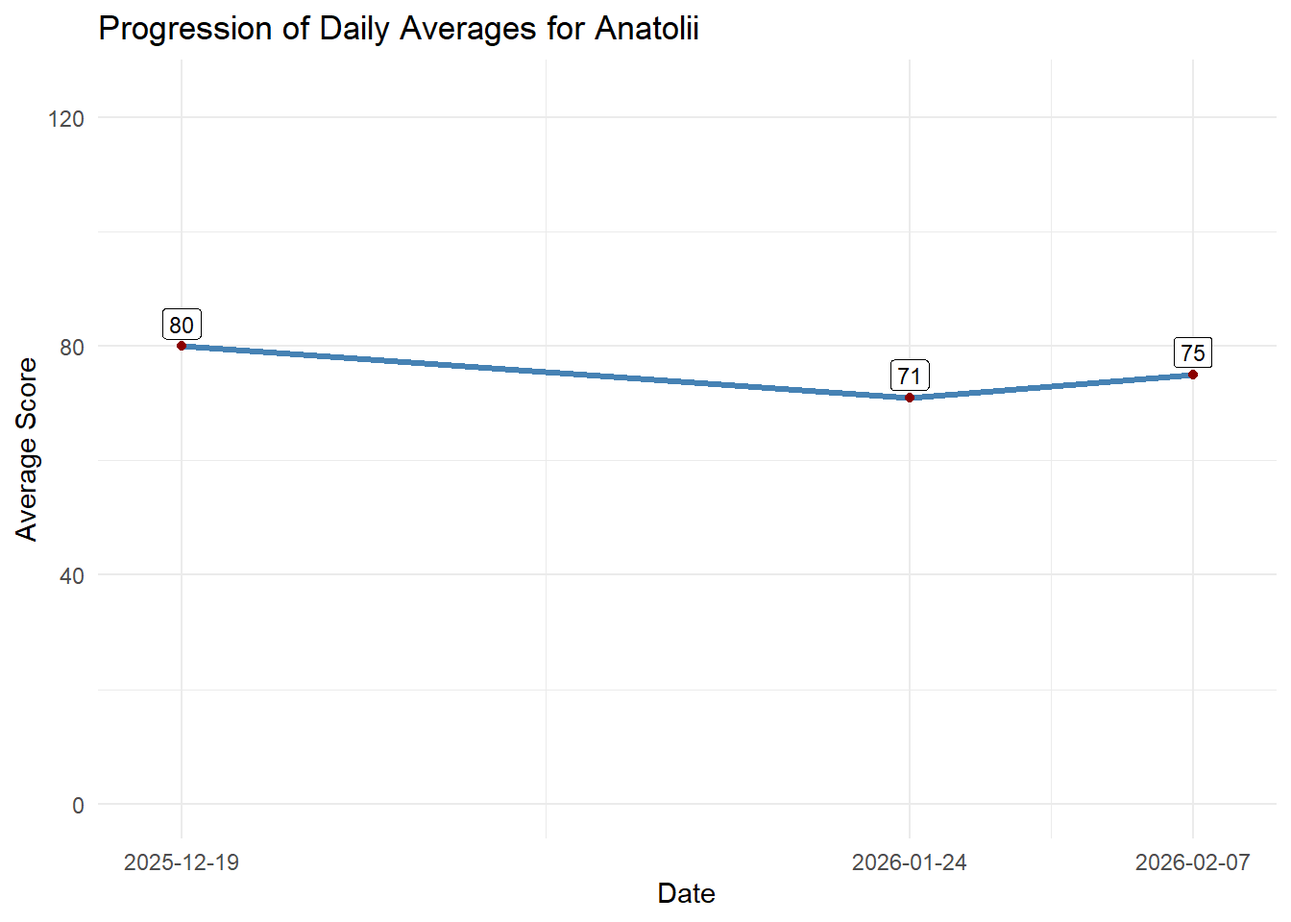
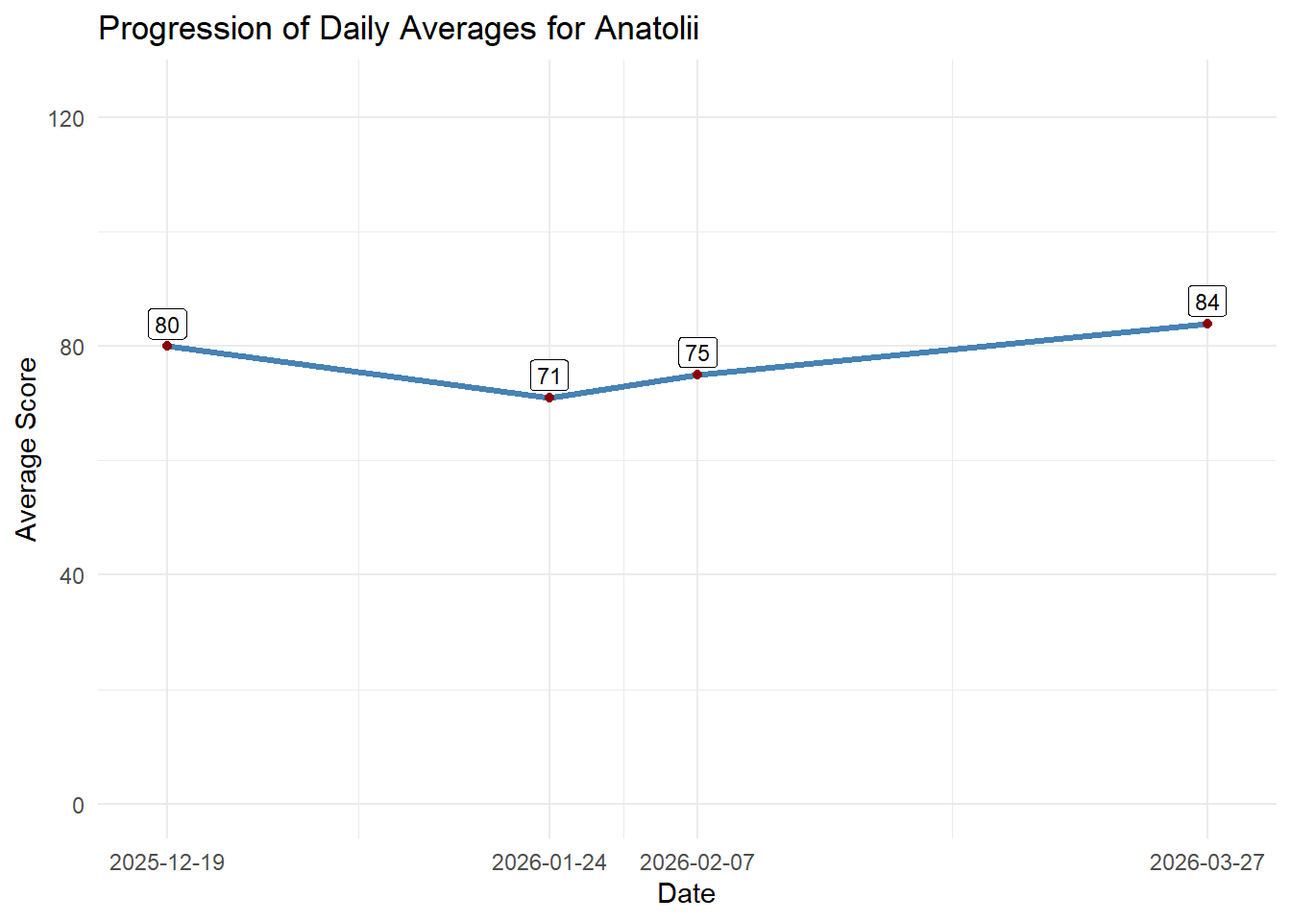
added results from 2026-03-27

diff --git a/docs/sessions.html b/docs/sessions.html
@@ -179,38 +179,47 @@ ul.task-list li input[type="checkbox"] {
 
 <p>The sessions are sorted from new to old.</p>
 <section id="section" class="level2">
-<h2 class="anchored" data-anchor-id="section">06.03.2026</h2>
+<h2 class="anchored" data-anchor-id="section">27.03.2026</h2>
 <div class="cell">
 <div class="cell-output-display">
-<div class="datatables html-widget html-fill-item" id="htmlwidget-83ca4fffd3bae11e1f9b" style="width:100%;height:auto;"></div>
-<script type="application/json" data-for="htmlwidget-83ca4fffd3bae11e1f9b">{"x":{"filter":"none","vertical":false,"data":[["1","2","3","4"],["Flora","Julia","Daniel","Maria"],[95,45,57,58],[77,64,50,38],[86,54.5,53.5,48],[12.7,13.4,4.9,14.1],[2,0,1,0]],"container":"<table class=\"display\">\n  <thead>\n    <tr>\n      <th> <\/th>\n      <th>Player<\/th>\n      <th>Round 1<\/th>\n      <th>Round 2<\/th>\n      <th>Average Score<\/th>\n      <th>Score Standard Deviation<\/th>\n      <th>Strikes<\/th>\n    <\/tr>\n  <\/thead>\n<\/table>","options":{"dom":"t","paging":false,"searching":false,"info":false,"lengthChange":false,"columnDefs":[{"orderSequence":["desc","asc"],"targets":"_all"},{"className":"dt-right","targets":[2,3,4,5,6]},{"orderable":false,"targets":0},{"name":" ","targets":0},{"name":"Player","targets":1},{"name":"Round 1","targets":2},{"name":"Round 2","targets":3},{"name":"Average Score","targets":4},{"name":"Score Standard Deviation","targets":5},{"name":"Strikes","targets":6}],"order":[],"autoWidth":false,"orderClasses":false}},"evals":[],"jsHooks":[]}</script>
+<div class="datatables html-widget html-fill-item" id="htmlwidget-effa2fcfee733bdd86a0" style="width:100%;height:auto;"></div>
+<script type="application/json" data-for="htmlwidget-effa2fcfee733bdd86a0">{"x":{"filter":"none","vertical":false,"data":[["1","2","3","4"],["Niko","Anatolii","Flora","Julia"],[119,88,75,49],[105,81,89,94],[112,84.5,82,71.5],[9.9,4.9,9.9,31.8],[3,2,1,4]],"container":"<table class=\"display\">\n  <thead>\n    <tr>\n      <th> <\/th>\n      <th>Player<\/th>\n      <th>Round 1<\/th>\n      <th>Round 2<\/th>\n      <th>Average Score<\/th>\n      <th>Score Standard Deviation<\/th>\n      <th>Strikes<\/th>\n    <\/tr>\n  <\/thead>\n<\/table>","options":{"dom":"t","paging":false,"searching":false,"info":false,"lengthChange":false,"columnDefs":[{"orderSequence":["desc","asc"],"targets":"_all"},{"className":"dt-right","targets":[2,3,4,5,6]},{"orderable":false,"targets":0},{"name":" ","targets":0},{"name":"Player","targets":1},{"name":"Round 1","targets":2},{"name":"Round 2","targets":3},{"name":"Average Score","targets":4},{"name":"Score Standard Deviation","targets":5},{"name":"Strikes","targets":6}],"order":[],"autoWidth":false,"orderClasses":false}},"evals":[],"jsHooks":[]}</script>
 </div>
 </div>
 </section>
 <section id="section-1" class="level2">
-<h2 class="anchored" data-anchor-id="section-1">07.02.2026</h2>
+<h2 class="anchored" data-anchor-id="section-1">06.03.2026</h2>
 <div class="cell">
 <div class="cell-output-display">
-<div class="datatables html-widget html-fill-item" id="htmlwidget-dc3dbd8230154e09d8fd" style="width:100%;height:auto;"></div>
-<script type="application/json" data-for="htmlwidget-dc3dbd8230154e09d8fd">{"x":{"filter":"none","vertical":false,"data":[["1","2","3","4"],["Niko","Anatolii","Julia","Daniel"],[81,71,63,49],[124,74,68,82],[82,81,70,59],[95.7,75.3,67,63.3],[24.5,5.1,3.6,16.9],[2,2,0,0]],"container":"<table class=\"display\">\n  <thead>\n    <tr>\n      <th> <\/th>\n      <th>Player<\/th>\n      <th>Round 1<\/th>\n      <th>Round 2<\/th>\n      <th>Round 3<\/th>\n      <th>Average Score<\/th>\n      <th>Score Standard Deviation<\/th>\n      <th>Strikes<\/th>\n    <\/tr>\n  <\/thead>\n<\/table>","options":{"dom":"t","paging":false,"searching":false,"info":false,"lengthChange":false,"columnDefs":[{"orderSequence":["desc","asc"],"targets":"_all"},{"className":"dt-right","targets":[2,3,4,5,6,7]},{"orderable":false,"targets":0},{"name":" ","targets":0},{"name":"Player","targets":1},{"name":"Round 1","targets":2},{"name":"Round 2","targets":3},{"name":"Round 3","targets":4},{"name":"Average Score","targets":5},{"name":"Score Standard Deviation","targets":6},{"name":"Strikes","targets":7}],"order":[],"autoWidth":false,"orderClasses":false}},"evals":[],"jsHooks":[]}</script>
+<div class="datatables html-widget html-fill-item" id="htmlwidget-b308853e47e1a6294600" style="width:100%;height:auto;"></div>
+<script type="application/json" data-for="htmlwidget-b308853e47e1a6294600">{"x":{"filter":"none","vertical":false,"data":[["1","2","3","4"],["Flora","Julia","Daniel","Maria"],[95,45,57,58],[77,64,50,38],[86,54.5,53.5,48],[12.7,13.4,4.9,14.1],[2,0,1,0]],"container":"<table class=\"display\">\n  <thead>\n    <tr>\n      <th> <\/th>\n      <th>Player<\/th>\n      <th>Round 1<\/th>\n      <th>Round 2<\/th>\n      <th>Average Score<\/th>\n      <th>Score Standard Deviation<\/th>\n      <th>Strikes<\/th>\n    <\/tr>\n  <\/thead>\n<\/table>","options":{"dom":"t","paging":false,"searching":false,"info":false,"lengthChange":false,"columnDefs":[{"orderSequence":["desc","asc"],"targets":"_all"},{"className":"dt-right","targets":[2,3,4,5,6]},{"orderable":false,"targets":0},{"name":" ","targets":0},{"name":"Player","targets":1},{"name":"Round 1","targets":2},{"name":"Round 2","targets":3},{"name":"Average Score","targets":4},{"name":"Score Standard Deviation","targets":5},{"name":"Strikes","targets":6}],"order":[],"autoWidth":false,"orderClasses":false}},"evals":[],"jsHooks":[]}</script>
 </div>
 </div>
 </section>
 <section id="section-2" class="level2">
-<h2 class="anchored" data-anchor-id="section-2">24.01.2026</h2>
+<h2 class="anchored" data-anchor-id="section-2">07.02.2026</h2>
 <div class="cell">
 <div class="cell-output-display">
-<div class="datatables html-widget html-fill-item" id="htmlwidget-20107ad24300d20d2195" style="width:100%;height:auto;"></div>
-<script type="application/json" data-for="htmlwidget-20107ad24300d20d2195">{"x":{"filter":"none","vertical":false,"data":[["1","2","3","4","5"],["Niko","Anatolii","Daniel","Julia","Flora"],[73,73,82,65,46],[101,70,54,81,81],[86,71,75,64,72],[86.7,71.3,70.3,70,66.3],[14,1.5,14.6,9.5,18.2],[2,2,0,3,1]],"container":"<table class=\"display\">\n  <thead>\n    <tr>\n      <th> <\/th>\n      <th>Player<\/th>\n      <th>Round 1<\/th>\n      <th>Round 2<\/th>\n      <th>Round 3<\/th>\n      <th>Average Score<\/th>\n      <th>Score Standard Deviation<\/th>\n      <th>Strikes<\/th>\n    <\/tr>\n  <\/thead>\n<\/table>","options":{"dom":"t","paging":false,"searching":false,"info":false,"lengthChange":false,"columnDefs":[{"orderSequence":["desc","asc"],"targets":"_all"},{"className":"dt-right","targets":[2,3,4,5,6,7]},{"orderable":false,"targets":0},{"name":" ","targets":0},{"name":"Player","targets":1},{"name":"Round 1","targets":2},{"name":"Round 2","targets":3},{"name":"Round 3","targets":4},{"name":"Average Score","targets":5},{"name":"Score Standard Deviation","targets":6},{"name":"Strikes","targets":7}],"order":[],"autoWidth":false,"orderClasses":false}},"evals":[],"jsHooks":[]}</script>
+<div class="datatables html-widget html-fill-item" id="htmlwidget-b8e3eefb095fd78a4b74" style="width:100%;height:auto;"></div>
+<script type="application/json" data-for="htmlwidget-b8e3eefb095fd78a4b74">{"x":{"filter":"none","vertical":false,"data":[["1","2","3","4"],["Niko","Anatolii","Julia","Daniel"],[81,71,63,49],[124,74,68,82],[82,81,70,59],[95.7,75.3,67,63.3],[24.5,5.1,3.6,16.9],[2,2,0,0]],"container":"<table class=\"display\">\n  <thead>\n    <tr>\n      <th> <\/th>\n      <th>Player<\/th>\n      <th>Round 1<\/th>\n      <th>Round 2<\/th>\n      <th>Round 3<\/th>\n      <th>Average Score<\/th>\n      <th>Score Standard Deviation<\/th>\n      <th>Strikes<\/th>\n    <\/tr>\n  <\/thead>\n<\/table>","options":{"dom":"t","paging":false,"searching":false,"info":false,"lengthChange":false,"columnDefs":[{"orderSequence":["desc","asc"],"targets":"_all"},{"className":"dt-right","targets":[2,3,4,5,6,7]},{"orderable":false,"targets":0},{"name":" ","targets":0},{"name":"Player","targets":1},{"name":"Round 1","targets":2},{"name":"Round 2","targets":3},{"name":"Round 3","targets":4},{"name":"Average Score","targets":5},{"name":"Score Standard Deviation","targets":6},{"name":"Strikes","targets":7}],"order":[],"autoWidth":false,"orderClasses":false}},"evals":[],"jsHooks":[]}</script>
 </div>
 </div>
 </section>
 <section id="section-3" class="level2">
-<h2 class="anchored" data-anchor-id="section-3">19.12.2025</h2>
+<h2 class="anchored" data-anchor-id="section-3">24.01.2026</h2>
 <div class="cell">
 <div class="cell-output-display">
-<div class="datatables html-widget html-fill-item" id="htmlwidget-5a49792ca533fc8ac178" style="width:100%;height:auto;"></div>
-<script type="application/json" data-for="htmlwidget-5a49792ca533fc8ac178">{"x":{"filter":"none","vertical":false,"data":[["1","2","3","4","5"],["Niko","Anatolii","Julia","Flora","Daniel"],[73,61,66,105,48],[97,79,79,51,77],[90,101,79,43,49],[86.7,80.3,74.7,66.3,58],[12.3,20,7.5,33.7,16.5],[3,2,0,2,1]],"container":"<table class=\"display\">\n  <thead>\n    <tr>\n      <th> <\/th>\n      <th>Player<\/th>\n      <th>Round 1<\/th>\n      <th>Round 2<\/th>\n      <th>Round 3<\/th>\n      <th>Average Score<\/th>\n      <th>Score Standard Deviation<\/th>\n      <th>Strikes<\/th>\n    <\/tr>\n  <\/thead>\n<\/table>","options":{"dom":"t","paging":false,"searching":false,"info":false,"lengthChange":false,"columnDefs":[{"orderSequence":["desc","asc"],"targets":"_all"},{"className":"dt-right","targets":[2,3,4,5,6,7]},{"orderable":false,"targets":0},{"name":" ","targets":0},{"name":"Player","targets":1},{"name":"Round 1","targets":2},{"name":"Round 2","targets":3},{"name":"Round 3","targets":4},{"name":"Average Score","targets":5},{"name":"Score Standard Deviation","targets":6},{"name":"Strikes","targets":7}],"order":[],"autoWidth":false,"orderClasses":false}},"evals":[],"jsHooks":[]}</script>
+<div class="datatables html-widget html-fill-item" id="htmlwidget-a43e8916b580a3f84c12" style="width:100%;height:auto;"></div>
+<script type="application/json" data-for="htmlwidget-a43e8916b580a3f84c12">{"x":{"filter":"none","vertical":false,"data":[["1","2","3","4","5"],["Niko","Anatolii","Daniel","Julia","Flora"],[73,73,82,65,46],[101,70,54,81,81],[86,71,75,64,72],[86.7,71.3,70.3,70,66.3],[14,1.5,14.6,9.5,18.2],[2,2,0,3,1]],"container":"<table class=\"display\">\n  <thead>\n    <tr>\n      <th> <\/th>\n      <th>Player<\/th>\n      <th>Round 1<\/th>\n      <th>Round 2<\/th>\n      <th>Round 3<\/th>\n      <th>Average Score<\/th>\n      <th>Score Standard Deviation<\/th>\n      <th>Strikes<\/th>\n    <\/tr>\n  <\/thead>\n<\/table>","options":{"dom":"t","paging":false,"searching":false,"info":false,"lengthChange":false,"columnDefs":[{"orderSequence":["desc","asc"],"targets":"_all"},{"className":"dt-right","targets":[2,3,4,5,6,7]},{"orderable":false,"targets":0},{"name":" ","targets":0},{"name":"Player","targets":1},{"name":"Round 1","targets":2},{"name":"Round 2","targets":3},{"name":"Round 3","targets":4},{"name":"Average Score","targets":5},{"name":"Score Standard Deviation","targets":6},{"name":"Strikes","targets":7}],"order":[],"autoWidth":false,"orderClasses":false}},"evals":[],"jsHooks":[]}</script>
+</div>
+</div>
+</section>
+<section id="section-4" class="level2">
+<h2 class="anchored" data-anchor-id="section-4">19.12.2025</h2>
+<div class="cell">
+<div class="cell-output-display">
+<div class="datatables html-widget html-fill-item" id="htmlwidget-caf82d900a7888361215" style="width:100%;height:auto;"></div>
+<script type="application/json" data-for="htmlwidget-caf82d900a7888361215">{"x":{"filter":"none","vertical":false,"data":[["1","2","3","4","5"],["Niko","Anatolii","Julia","Flora","Daniel"],[73,61,66,105,48],[97,79,79,51,77],[90,101,79,43,49],[86.7,80.3,74.7,66.3,58],[12.3,20,7.5,33.7,16.5],[3,2,0,2,1]],"container":"<table class=\"display\">\n  <thead>\n    <tr>\n      <th> <\/th>\n      <th>Player<\/th>\n      <th>Round 1<\/th>\n      <th>Round 2<\/th>\n      <th>Round 3<\/th>\n      <th>Average Score<\/th>\n      <th>Score Standard Deviation<\/th>\n      <th>Strikes<\/th>\n    <\/tr>\n  <\/thead>\n<\/table>","options":{"dom":"t","paging":false,"searching":false,"info":false,"lengthChange":false,"columnDefs":[{"orderSequence":["desc","asc"],"targets":"_all"},{"className":"dt-right","targets":[2,3,4,5,6,7]},{"orderable":false,"targets":0},{"name":" ","targets":0},{"name":"Player","targets":1},{"name":"Round 1","targets":2},{"name":"Round 2","targets":3},{"name":"Round 3","targets":4},{"name":"Average Score","targets":5},{"name":"Score Standard Deviation","targets":6},{"name":"Strikes","targets":7}],"order":[],"autoWidth":false,"orderClasses":false}},"evals":[],"jsHooks":[]}</script>
 </div>
 </div>
 

diff --git a/docs/index.html b/docs/index.html
@@ -179,8 +179,8 @@ ul.task-list li input[type="checkbox"] {
 
 <div class="cell">
 <div class="cell-output-display">
-<div class="datatables html-widget html-fill-item" id="htmlwidget-ad7d13aa25195f9eefb1" style="width:100%;height:auto;"></div>
-<script type="application/json" data-for="htmlwidget-ad7d13aa25195f9eefb1">{"x":{"filter":"none","vertical":false,"data":[["1","2","3","4","5","6"],["Niko","Anatolii","Flora","Julia","Daniel","Maria"],[9,9,8,11,11,2],[89.7,75.7,71.2,67.59999999999999,62,48],[124,101,105,81,82,58],[73,61,43,45,48,38],[16.1,11.1,22.9,10.1,14,14.1],[0.8,0.7,0.6,0.3,0.2,0]],"container":"<table class=\"display\">\n  <thead>\n    <tr>\n      <th> <\/th>\n      <th>Player<\/th>\n      <th>Total Rounds Played<\/th>\n      <th>Average Score<\/th>\n      <th>Best Score<\/th>\n      <th>Worst Score<\/th>\n      <th>Score Standard Deviation<\/th>\n      <th>Strikes/ Game<\/th>\n    <\/tr>\n  <\/thead>\n<\/table>","options":{"dom":"t","paging":false,"searching":false,"info":false,"lengthChange":false,"columnDefs":[{"orderSequence":["desc","asc"],"targets":"_all"},{"className":"dt-right","targets":[2,3,4,5,6,7]},{"orderable":false,"targets":0},{"name":" ","targets":0},{"name":"Player","targets":1},{"name":"Total Rounds Played","targets":2},{"name":"Average Score","targets":3},{"name":"Best Score","targets":4},{"name":"Worst Score","targets":5},{"name":"Score Standard Deviation","targets":6},{"name":"Strikes/ Game","targets":7}],"order":[],"autoWidth":false,"orderClasses":false}},"evals":[],"jsHooks":[]}</script>
+<div class="datatables html-widget html-fill-item" id="htmlwidget-2c00bdac7072eb062334" style="width:100%;height:auto;"></div>
+<script type="application/json" data-for="htmlwidget-2c00bdac7072eb062334">{"x":{"filter":"none","vertical":false,"data":[["1","2","3","4","5","6"],["Niko","Anatolii","Flora","Julia","Daniel","Maria"],[11,11,10,13,11,2],[93.7,77.3,73.40000000000001,68.2,62,48],[124,101,105,94,82,58],[73,61,43,45,48,38],[17.3,10.6,21,13.1,14,14.1],[0.9,0.7,0.6,0.5,0.2,0]],"container":"<table class=\"display\">\n  <thead>\n    <tr>\n      <th> <\/th>\n      <th>Player<\/th>\n      <th>Total Rounds Played<\/th>\n      <th>Average Score<\/th>\n      <th>Best Score<\/th>\n      <th>Worst Score<\/th>\n      <th>Score Standard Deviation<\/th>\n      <th>Strikes/ Game<\/th>\n    <\/tr>\n  <\/thead>\n<\/table>","options":{"dom":"t","paging":false,"searching":false,"info":false,"lengthChange":false,"columnDefs":[{"orderSequence":["desc","asc"],"targets":"_all"},{"className":"dt-right","targets":[2,3,4,5,6,7]},{"orderable":false,"targets":0},{"name":" ","targets":0},{"name":"Player","targets":1},{"name":"Total Rounds Played","targets":2},{"name":"Average Score","targets":3},{"name":"Best Score","targets":4},{"name":"Worst Score","targets":5},{"name":"Score Standard Deviation","targets":6},{"name":"Strikes/ Game","targets":7}],"order":[],"autoWidth":false,"orderClasses":false}},"evals":[],"jsHooks":[]}</script>
 </div>
 </div>
 

diff --git a/docs/players/julia.html b/docs/players/julia.html
@@ -179,8 +179,8 @@ ul.task-list li input[type="checkbox"] {
 <h2 class="anchored" data-anchor-id="stats-overview">Stats Overview</h2>
 <div class="cell">
 <div class="cell-output-display">
-<div class="datatables html-widget html-fill-item" id="htmlwidget-b5e6d4e3071d5a756ec0" style="width:100%;height:auto;"></div>
-<script type="application/json" data-for="htmlwidget-b5e6d4e3071d5a756ec0">{"x":{"filter":"none","vertical":false,"data":[[11],[81],[45],[67.59999999999999],[10.1],[0.3]],"container":"<table class=\"display\">\n  <thead>\n    <tr>\n      <th>Total Rounds Played<\/th>\n      <th>Highest Score<\/th>\n      <th>Lowest Score<\/th>\n      <th>Average Score<\/th>\n      <th>Score Standard Deviation<\/th>\n      <th>Strikes/ Game<\/th>\n    <\/tr>\n  <\/thead>\n<\/table>","options":{"dom":"t","paging":false,"searching":false,"info":false,"lengthChange":false,"columnDefs":[{"className":"dt-right","targets":[0,1,2,3,4,5]},{"name":"Total Rounds Played","targets":0},{"name":"Highest Score","targets":1},{"name":"Lowest Score","targets":2},{"name":"Average Score","targets":3},{"name":"Score Standard Deviation","targets":4},{"name":"Strikes/ Game","targets":5}],"order":[],"autoWidth":false,"orderClasses":false}},"evals":[],"jsHooks":[]}</script>
+<div class="datatables html-widget html-fill-item" id="htmlwidget-7e770af08539891a5f5a" style="width:100%;height:auto;"></div>
+<script type="application/json" data-for="htmlwidget-7e770af08539891a5f5a">{"x":{"filter":"none","vertical":false,"data":[[13],[94],[45],[68.2],[13.1],[0.5]],"container":"<table class=\"display\">\n  <thead>\n    <tr>\n      <th>Total Rounds Played<\/th>\n      <th>Highest Score<\/th>\n      <th>Lowest Score<\/th>\n      <th>Average Score<\/th>\n      <th>Score Standard Deviation<\/th>\n      <th>Strikes/ Game<\/th>\n    <\/tr>\n  <\/thead>\n<\/table>","options":{"dom":"t","paging":false,"searching":false,"info":false,"lengthChange":false,"columnDefs":[{"className":"dt-right","targets":[0,1,2,3,4,5]},{"name":"Total Rounds Played","targets":0},{"name":"Highest Score","targets":1},{"name":"Lowest Score","targets":2},{"name":"Average Score","targets":3},{"name":"Score Standard Deviation","targets":4},{"name":"Strikes/ Game","targets":5}],"order":[],"autoWidth":false,"orderClasses":false}},"evals":[],"jsHooks":[]}</script>
 </div>
 </div>
 </section>

diff --git a/docs/players/flora.html b/docs/players/flora.html
@@ -179,8 +179,8 @@ ul.task-list li input[type="checkbox"] {
 <h2 class="anchored" data-anchor-id="stats-overview">Stats Overview</h2>
 <div class="cell">
 <div class="cell-output-display">
-<div class="datatables html-widget html-fill-item" id="htmlwidget-d4797e32ea38f14a90d8" style="width:100%;height:auto;"></div>
-<script type="application/json" data-for="htmlwidget-d4797e32ea38f14a90d8">{"x":{"filter":"none","vertical":false,"data":[[8],[105],[43],[71.2],[22.9],[0.6]],"container":"<table class=\"display\">\n  <thead>\n    <tr>\n      <th>Total Rounds Played<\/th>\n      <th>Highest Score<\/th>\n      <th>Lowest Score<\/th>\n      <th>Average Score<\/th>\n      <th>Score Standard Deviation<\/th>\n      <th>Strikes/ Game<\/th>\n    <\/tr>\n  <\/thead>\n<\/table>","options":{"dom":"t","paging":false,"searching":false,"info":false,"lengthChange":false,"columnDefs":[{"className":"dt-right","targets":[0,1,2,3,4,5]},{"name":"Total Rounds Played","targets":0},{"name":"Highest Score","targets":1},{"name":"Lowest Score","targets":2},{"name":"Average Score","targets":3},{"name":"Score Standard Deviation","targets":4},{"name":"Strikes/ Game","targets":5}],"order":[],"autoWidth":false,"orderClasses":false}},"evals":[],"jsHooks":[]}</script>
+<div class="datatables html-widget html-fill-item" id="htmlwidget-9ec30089ae21331f8933" style="width:100%;height:auto;"></div>
+<script type="application/json" data-for="htmlwidget-9ec30089ae21331f8933">{"x":{"filter":"none","vertical":false,"data":[[10],[105],[43],[73.40000000000001],[21],[0.6]],"container":"<table class=\"display\">\n  <thead>\n    <tr>\n      <th>Total Rounds Played<\/th>\n      <th>Highest Score<\/th>\n      <th>Lowest Score<\/th>\n      <th>Average Score<\/th>\n      <th>Score Standard Deviation<\/th>\n      <th>Strikes/ Game<\/th>\n    <\/tr>\n  <\/thead>\n<\/table>","options":{"dom":"t","paging":false,"searching":false,"info":false,"lengthChange":false,"columnDefs":[{"className":"dt-right","targets":[0,1,2,3,4,5]},{"name":"Total Rounds Played","targets":0},{"name":"Highest Score","targets":1},{"name":"Lowest Score","targets":2},{"name":"Average Score","targets":3},{"name":"Score Standard Deviation","targets":4},{"name":"Strikes/ Game","targets":5}],"order":[],"autoWidth":false,"orderClasses":false}},"evals":[],"jsHooks":[]}</script>
 </div>
 </div>
 </section>

diff --git a/docs/players/anatolii.html b/docs/players/anatolii.html
@@ -179,8 +179,8 @@ ul.task-list li input[type="checkbox"] {
 <h2 class="anchored" data-anchor-id="stats-overview">Stats Overview</h2>
 <div class="cell">
 <div class="cell-output-display">
-<div class="datatables html-widget html-fill-item" id="htmlwidget-e65abe17cf19ae985a21" style="width:100%;height:auto;"></div>
-<script type="application/json" data-for="htmlwidget-e65abe17cf19ae985a21">{"x":{"filter":"none","vertical":false,"data":[[9],[101],[61],[75.7],[11.1],[0.7]],"container":"<table class=\"display\">\n  <thead>\n    <tr>\n      <th>Total Rounds Played<\/th>\n      <th>Highest Score<\/th>\n      <th>Lowest Score<\/th>\n      <th>Average Score<\/th>\n      <th>Score Standard Deviation<\/th>\n      <th>Strikes/ Game<\/th>\n    <\/tr>\n  <\/thead>\n<\/table>","options":{"dom":"t","paging":false,"searching":false,"info":false,"lengthChange":false,"columnDefs":[{"className":"dt-right","targets":[0,1,2,3,4,5]},{"name":"Total Rounds Played","targets":0},{"name":"Highest Score","targets":1},{"name":"Lowest Score","targets":2},{"name":"Average Score","targets":3},{"name":"Score Standard Deviation","targets":4},{"name":"Strikes/ Game","targets":5}],"order":[],"autoWidth":false,"orderClasses":false}},"evals":[],"jsHooks":[]}</script>
+<div class="datatables html-widget html-fill-item" id="htmlwidget-f496b88ac72aecbaec1b" style="width:100%;height:auto;"></div>
+<script type="application/json" data-for="htmlwidget-f496b88ac72aecbaec1b">{"x":{"filter":"none","vertical":false,"data":[[11],[101],[61],[77.3],[10.6],[0.7]],"container":"<table class=\"display\">\n  <thead>\n    <tr>\n      <th>Total Rounds Played<\/th>\n      <th>Highest Score<\/th>\n      <th>Lowest Score<\/th>\n      <th>Average Score<\/th>\n      <th>Score Standard Deviation<\/th>\n      <th>Strikes/ Game<\/th>\n    <\/tr>\n  <\/thead>\n<\/table>","options":{"dom":"t","paging":false,"searching":false,"info":false,"lengthChange":false,"columnDefs":[{"className":"dt-right","targets":[0,1,2,3,4,5]},{"name":"Total Rounds Played","targets":0},{"name":"Highest Score","targets":1},{"name":"Lowest Score","targets":2},{"name":"Average Score","targets":3},{"name":"Score Standard Deviation","targets":4},{"name":"Strikes/ Game","targets":5}],"order":[],"autoWidth":false,"orderClasses":false}},"evals":[],"jsHooks":[]}</script>
 </div>
 </div>
 </section>

diff --git a/docs/players/niko.html b/docs/players/niko.html
@@ -179,8 +179,8 @@ ul.task-list li input[type="checkbox"] {
 <h2 class="anchored" data-anchor-id="stats-overview">Stats Overview</h2>
 <div class="cell">
 <div class="cell-output-display">
-<div class="datatables html-widget html-fill-item" id="htmlwidget-aebb1a9a45ee5998be23" style="width:100%;height:auto;"></div>
-<script type="application/json" data-for="htmlwidget-aebb1a9a45ee5998be23">{"x":{"filter":"none","vertical":false,"data":[[9],[124],[73],[89.7],[16.1],[0.8]],"container":"<table class=\"display\">\n  <thead>\n    <tr>\n      <th>Total Rounds Played<\/th>\n      <th>Highest Score<\/th>\n      <th>Lowest Score<\/th>\n      <th>Average Score<\/th>\n      <th>Score Standard Deviation<\/th>\n      <th>Strikes/ Game<\/th>\n    <\/tr>\n  <\/thead>\n<\/table>","options":{"dom":"t","paging":false,"searching":false,"info":false,"lengthChange":false,"columnDefs":[{"className":"dt-right","targets":[0,1,2,3,4,5]},{"name":"Total Rounds Played","targets":0},{"name":"Highest Score","targets":1},{"name":"Lowest Score","targets":2},{"name":"Average Score","targets":3},{"name":"Score Standard Deviation","targets":4},{"name":"Strikes/ Game","targets":5}],"order":[],"autoWidth":false,"orderClasses":false}},"evals":[],"jsHooks":[]}</script>
+<div class="datatables html-widget html-fill-item" id="htmlwidget-1f86c50b4e87f321c8ac" style="width:100%;height:auto;"></div>
+<script type="application/json" data-for="htmlwidget-1f86c50b4e87f321c8ac">{"x":{"filter":"none","vertical":false,"data":[[11],[124],[73],[93.7],[17.3],[0.9]],"container":"<table class=\"display\">\n  <thead>\n    <tr>\n      <th>Total Rounds Played<\/th>\n      <th>Highest Score<\/th>\n      <th>Lowest Score<\/th>\n      <th>Average Score<\/th>\n      <th>Score Standard Deviation<\/th>\n      <th>Strikes/ Game<\/th>\n    <\/tr>\n  <\/thead>\n<\/table>","options":{"dom":"t","paging":false,"searching":false,"info":false,"lengthChange":false,"columnDefs":[{"className":"dt-right","targets":[0,1,2,3,4,5]},{"name":"Total Rounds Played","targets":0},{"name":"Highest Score","targets":1},{"name":"Lowest Score","targets":2},{"name":"Average Score","targets":3},{"name":"Score Standard Deviation","targets":4},{"name":"Strikes/ Game","targets":5}],"order":[],"autoWidth":false,"orderClasses":false}},"evals":[],"jsHooks":[]}</script>
 </div>
 </div>
 </section>

diff --git a/docs/players/nico.html b/docs/players/nico.html
@@ -187,8 +187,8 @@ Caused by warning in `max()`:
 ℹ Run `dplyr::last_dplyr_warnings()` to see the 1 remaining warning.</code></pre>
 </div>
 <div class="cell-output-display">
-<div class="datatables html-widget html-fill-item" id="htmlwidget-b7977ab7fdfbe88dd9c2" style="width:100%;height:auto;"></div>
-<script type="application/json" data-for="htmlwidget-b7977ab7fdfbe88dd9c2">{"x":{"filter":"none","vertical":false,"data":[[0],[null],[null],[null],[null],[null]],"container":"<table class=\"display\">\n  <thead>\n    <tr>\n      <th>Total Rounds Played<\/th>\n      <th>Highest Score<\/th>\n      <th>Lowest Score<\/th>\n      <th>Average Score<\/th>\n      <th>Score Standard Deviation<\/th>\n      <th>Strikes/ Game<\/th>\n    <\/tr>\n  <\/thead>\n<\/table>","options":{"dom":"t","paging":false,"searching":false,"info":false,"lengthChange":false,"columnDefs":[{"className":"dt-right","targets":[0,1,2,3,4,5]},{"name":"Total Rounds Played","targets":0},{"name":"Highest Score","targets":1},{"name":"Lowest Score","targets":2},{"name":"Average Score","targets":3},{"name":"Score Standard Deviation","targets":4},{"name":"Strikes/ Game","targets":5}],"order":[],"autoWidth":false,"orderClasses":false}},"evals":[],"jsHooks":[]}</script>
+<div class="datatables html-widget html-fill-item" id="htmlwidget-131b3cc204a42529f502" style="width:100%;height:auto;"></div>
+<script type="application/json" data-for="htmlwidget-131b3cc204a42529f502">{"x":{"filter":"none","vertical":false,"data":[[0],[null],[null],[null],[null],[null]],"container":"<table class=\"display\">\n  <thead>\n    <tr>\n      <th>Total Rounds Played<\/th>\n      <th>Highest Score<\/th>\n      <th>Lowest Score<\/th>\n      <th>Average Score<\/th>\n      <th>Score Standard Deviation<\/th>\n      <th>Strikes/ Game<\/th>\n    <\/tr>\n  <\/thead>\n<\/table>","options":{"dom":"t","paging":false,"searching":false,"info":false,"lengthChange":false,"columnDefs":[{"className":"dt-right","targets":[0,1,2,3,4,5]},{"name":"Total Rounds Played","targets":0},{"name":"Highest Score","targets":1},{"name":"Lowest Score","targets":2},{"name":"Average Score","targets":3},{"name":"Score Standard Deviation","targets":4},{"name":"Strikes/ Game","targets":5}],"order":[],"autoWidth":false,"orderClasses":false}},"evals":[],"jsHooks":[]}</script>
 </div>
 </div>
 </section>

diff --git a/docs/players/daniel.html b/docs/players/daniel.html
@@ -179,8 +179,8 @@ ul.task-list li input[type="checkbox"] {
 <h2 class="anchored" data-anchor-id="stats-overview">Stats Overview</h2>
 <div class="cell">
 <div class="cell-output-display">
-<div class="datatables html-widget html-fill-item" id="htmlwidget-04c755f753da2be31a8e" style="width:100%;height:auto;"></div>
-<script type="application/json" data-for="htmlwidget-04c755f753da2be31a8e">{"x":{"filter":"none","vertical":false,"data":[[11],[82],[48],[62],[14],[0.2]],"container":"<table class=\"display\">\n  <thead>\n    <tr>\n      <th>Total Rounds Played<\/th>\n      <th>Highest Score<\/th>\n      <th>Lowest Score<\/th>\n      <th>Average Score<\/th>\n      <th>Score Standard Deviation<\/th>\n      <th>Strikes/ Game<\/th>\n    <\/tr>\n  <\/thead>\n<\/table>","options":{"dom":"t","paging":false,"searching":false,"info":false,"lengthChange":false,"columnDefs":[{"className":"dt-right","targets":[0,1,2,3,4,5]},{"name":"Total Rounds Played","targets":0},{"name":"Highest Score","targets":1},{"name":"Lowest Score","targets":2},{"name":"Average Score","targets":3},{"name":"Score Standard Deviation","targets":4},{"name":"Strikes/ Game","targets":5}],"order":[],"autoWidth":false,"orderClasses":false}},"evals":[],"jsHooks":[]}</script>
+<div class="datatables html-widget html-fill-item" id="htmlwidget-4d69e341e1eaff02aa9f" style="width:100%;height:auto;"></div>
+<script type="application/json" data-for="htmlwidget-4d69e341e1eaff02aa9f">{"x":{"filter":"none","vertical":false,"data":[[11],[82],[48],[62],[14],[0.2]],"container":"<table class=\"display\">\n  <thead>\n    <tr>\n      <th>Total Rounds Played<\/th>\n      <th>Highest Score<\/th>\n      <th>Lowest Score<\/th>\n      <th>Average Score<\/th>\n      <th>Score Standard Deviation<\/th>\n      <th>Strikes/ Game<\/th>\n    <\/tr>\n  <\/thead>\n<\/table>","options":{"dom":"t","paging":false,"searching":false,"info":false,"lengthChange":false,"columnDefs":[{"className":"dt-right","targets":[0,1,2,3,4,5]},{"name":"Total Rounds Played","targets":0},{"name":"Highest Score","targets":1},{"name":"Lowest Score","targets":2},{"name":"Average Score","targets":3},{"name":"Score Standard Deviation","targets":4},{"name":"Strikes/ Game","targets":5}],"order":[],"autoWidth":false,"orderClasses":false}},"evals":[],"jsHooks":[]}</script>
 </div>
 </div>
 </section>

diff --git a/docs/players/maria.html b/docs/players/maria.html
@@ -179,8 +179,8 @@ ul.task-list li input[type="checkbox"] {
 <h2 class="anchored" data-anchor-id="stats-overview">Stats Overview</h2>
 <div class="cell">
 <div class="cell-output-display">
-<div class="datatables html-widget html-fill-item" id="htmlwidget-6bd25f7b8d6e1d00960f" style="width:100%;height:auto;"></div>
-<script type="application/json" data-for="htmlwidget-6bd25f7b8d6e1d00960f">{"x":{"filter":"none","vertical":false,"data":[[2],[58],[38],[48],[14.1],[0]],"container":"<table class=\"display\">\n  <thead>\n    <tr>\n      <th>Total Rounds Played<\/th>\n      <th>Highest Score<\/th>\n      <th>Lowest Score<\/th>\n      <th>Average Score<\/th>\n      <th>Score Standard Deviation<\/th>\n      <th>Strikes/ Game<\/th>\n    <\/tr>\n  <\/thead>\n<\/table>","options":{"dom":"t","paging":false,"searching":false,"info":false,"lengthChange":false,"columnDefs":[{"className":"dt-right","targets":[0,1,2,3,4,5]},{"name":"Total Rounds Played","targets":0},{"name":"Highest Score","targets":1},{"name":"Lowest Score","targets":2},{"name":"Average Score","targets":3},{"name":"Score Standard Deviation","targets":4},{"name":"Strikes/ Game","targets":5}],"order":[],"autoWidth":false,"orderClasses":false}},"evals":[],"jsHooks":[]}</script>
+<div class="datatables html-widget html-fill-item" id="htmlwidget-6343e75e28210a5a5dd7" style="width:100%;height:auto;"></div>
+<script type="application/json" data-for="htmlwidget-6343e75e28210a5a5dd7">{"x":{"filter":"none","vertical":false,"data":[[2],[58],[38],[48],[14.1],[0]],"container":"<table class=\"display\">\n  <thead>\n    <tr>\n      <th>Total Rounds Played<\/th>\n      <th>Highest Score<\/th>\n      <th>Lowest Score<\/th>\n      <th>Average Score<\/th>\n      <th>Score Standard Deviation<\/th>\n      <th>Strikes/ Game<\/th>\n    <\/tr>\n  <\/thead>\n<\/table>","options":{"dom":"t","paging":false,"searching":false,"info":false,"lengthChange":false,"columnDefs":[{"className":"dt-right","targets":[0,1,2,3,4,5]},{"name":"Total Rounds Played","targets":0},{"name":"Highest Score","targets":1},{"name":"Lowest Score","targets":2},{"name":"Average Score","targets":3},{"name":"Score Standard Deviation","targets":4},{"name":"Strikes/ Game","targets":5}],"order":[],"autoWidth":false,"orderClasses":false}},"evals":[],"jsHooks":[]}</script>
 </div>
 </div>
 </section>
